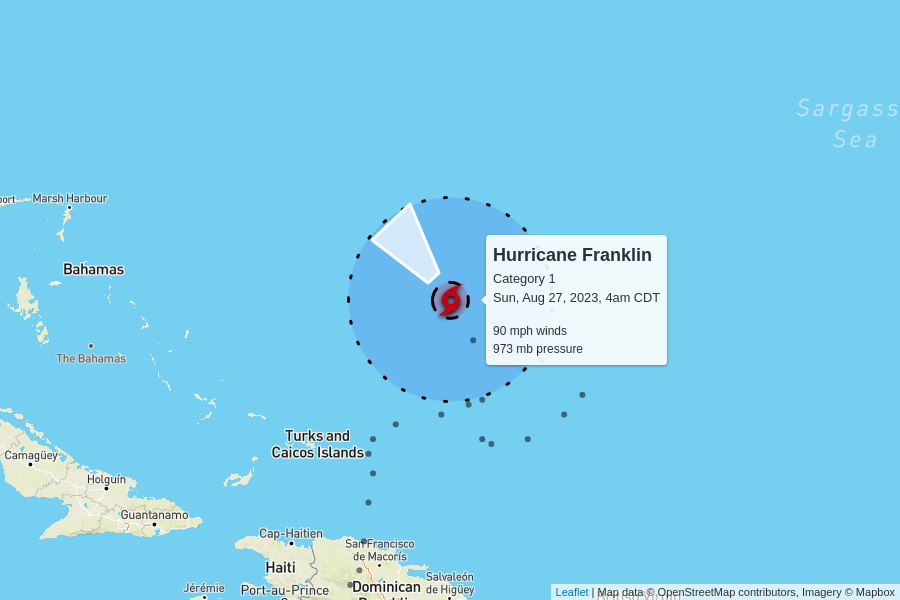
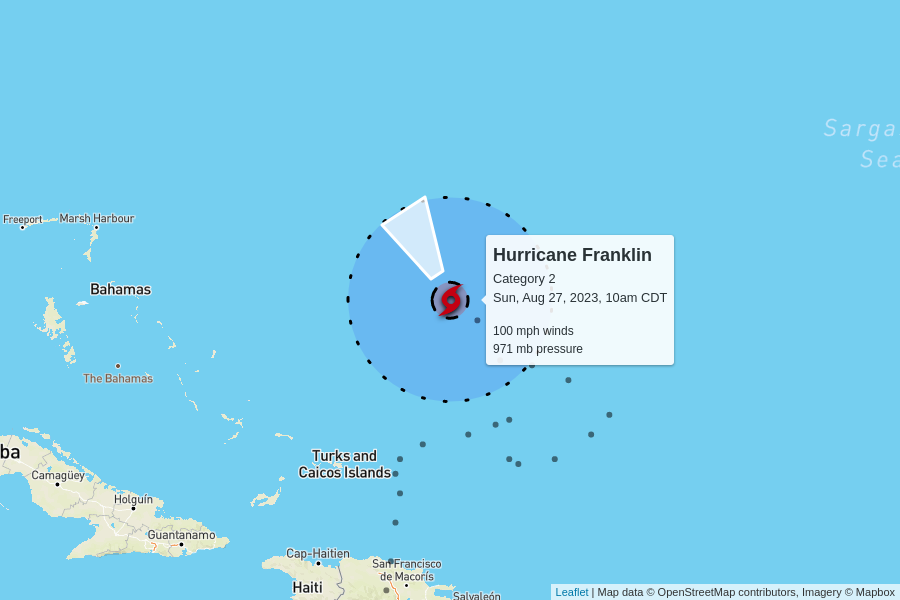
automatic update

diff --git a/docs/index.html b/docs/index.html
@@ -97,10 +97,54 @@
 
     <table>
       <tr>
+        <td colspan="6" class="storm category-2" >
+          <h2>
+            Hurricane Franklin - Category 2
+            <p class="updated">last updated <span data-time>2023-08-27T15:00:00.000Z</span></p>
+          </h2>
+        </td>
+      </tr>
+      
+      <tr>
+        <th class="spacer"></th>
+        <th>wind speed</th>
+        <th>central pressure</th>
+        <th>movement</th>
+        <th>data (CSV)</th>
+        <th>National Hurricane Center</th>
+      </tr>
+      <tr>
+        <td class="spacer"></td>
+        <td>100 mph</td>
+        <td>971 mb</td>
+        <td>
+          8 mph to the north-northwest
+          <br/>
+          <span style="display: inline-block; font-size: 1.5em; transform: rotate(330deg);">↑</span>
+        </td>
+        <td><a href="https://raw.githubusercontent.com/mgwalker/atlantic-hurricanes/main/data/csv/AL082023.csv">AL082023.csv</a></td>
+        <td><a href="https://www.nhc.noaa.gov/archive/2023/FRANKLIN.shtml?">NHC advisories</a></td>
+      </tr>
+      <tr id="storm_AL082023" >
+        <td class="spacer">
+        <td colspan="5">
+          <figure>
+            <img src="AL082023.png">
+            <figcaption>
+              Map data &copy; <a href="https://www.openstreetmap.org/copyright">OpenStreetMap</a> contributors,
+              Imagery &copy; <a href="https://www.mapbox.com/">Mapbox</a> |
+              <a href="https://www.mapbox.com/map-feedback/" target="_blank">Improve this map</a>
+            </figcaption>
+          </figure>
+        </td>
+      </tr>
+      
+
+      <tr>
         <td colspan="6" class="storm category-0" >
           <h2>
             Tropical Depression Ten
-            <p class="updated">last updated <span data-time>2023-08-27T12:00:00.000Z</span></p>
+            <p class="updated">last updated <span data-time>2023-08-27T15:00:00.000Z</span></p>
           </h2>
         </td>
       </tr>
@@ -118,9 +162,9 @@
         <td>35 mph</td>
         <td>1001 mb</td>
         <td>
-          5 mph to the southeast
+          2 mph to the east
           <br/>
-          <span style="display: inline-block; font-size: 1.5em; transform: rotate(135deg);">↑</span>
+          <span style="display: inline-block; font-size: 1.5em; transform: rotate(90deg);">↑</span>
         </td>
         <td><a href="https://raw.githubusercontent.com/mgwalker/atlantic-hurricanes/main/data/csv/AL102023.csv">AL102023.csv</a></td>
         <td><a href="https://www.nhc.noaa.gov/archive/2023/TEN.shtml?">NHC advisories</a></td>
@@ -130,50 +174,6 @@
         <td colspan="5">
           <figure>
             <img src="AL102023.png">
-            <figcaption>
-              Map data &copy; <a href="https://www.openstreetmap.org/copyright">OpenStreetMap</a> contributors,
-              Imagery &copy; <a href="https://www.mapbox.com/">Mapbox</a> |
-              <a href="https://www.mapbox.com/map-feedback/" target="_blank">Improve this map</a>
-            </figcaption>
-          </figure>
-        </td>
-      </tr>
-      
-
-      <tr>
-        <td colspan="6" class="storm category-1" >
-          <h2>
-            Hurricane Franklin - Category 1
-            <p class="updated">last updated <span data-time>2023-08-27T09:00:00.000Z</span></p>
-          </h2>
-        </td>
-      </tr>
-      
-      <tr>
-        <th class="spacer"></th>
-        <th>wind speed</th>
-        <th>central pressure</th>
-        <th>movement</th>
-        <th>data (CSV)</th>
-        <th>National Hurricane Center</th>
-      </tr>
-      <tr>
-        <td class="spacer"></td>
-        <td>90 mph</td>
-        <td>973 mb</td>
-        <td>
-          8 mph to the northwest
-          <br/>
-          <span style="display: inline-block; font-size: 1.5em; transform: rotate(320deg);">↑</span>
-        </td>
-        <td><a href="https://raw.githubusercontent.com/mgwalker/atlantic-hurricanes/main/data/csv/AL082023.csv">AL082023.csv</a></td>
-        <td><a href="https://www.nhc.noaa.gov/archive/2023/FRANKLIN.shtml?">NHC advisories</a></td>
-      </tr>
-      <tr id="storm_AL082023" >
-        <td class="spacer">
-        <td colspan="5">
-          <figure>
-            <img src="AL082023.png">
             <figcaption>
               Map data &copy; <a href="https://www.openstreetmap.org/copyright">OpenStreetMap</a> contributors,
               Imagery &copy; <a href="https://www.mapbox.com/">Mapbox</a> |
